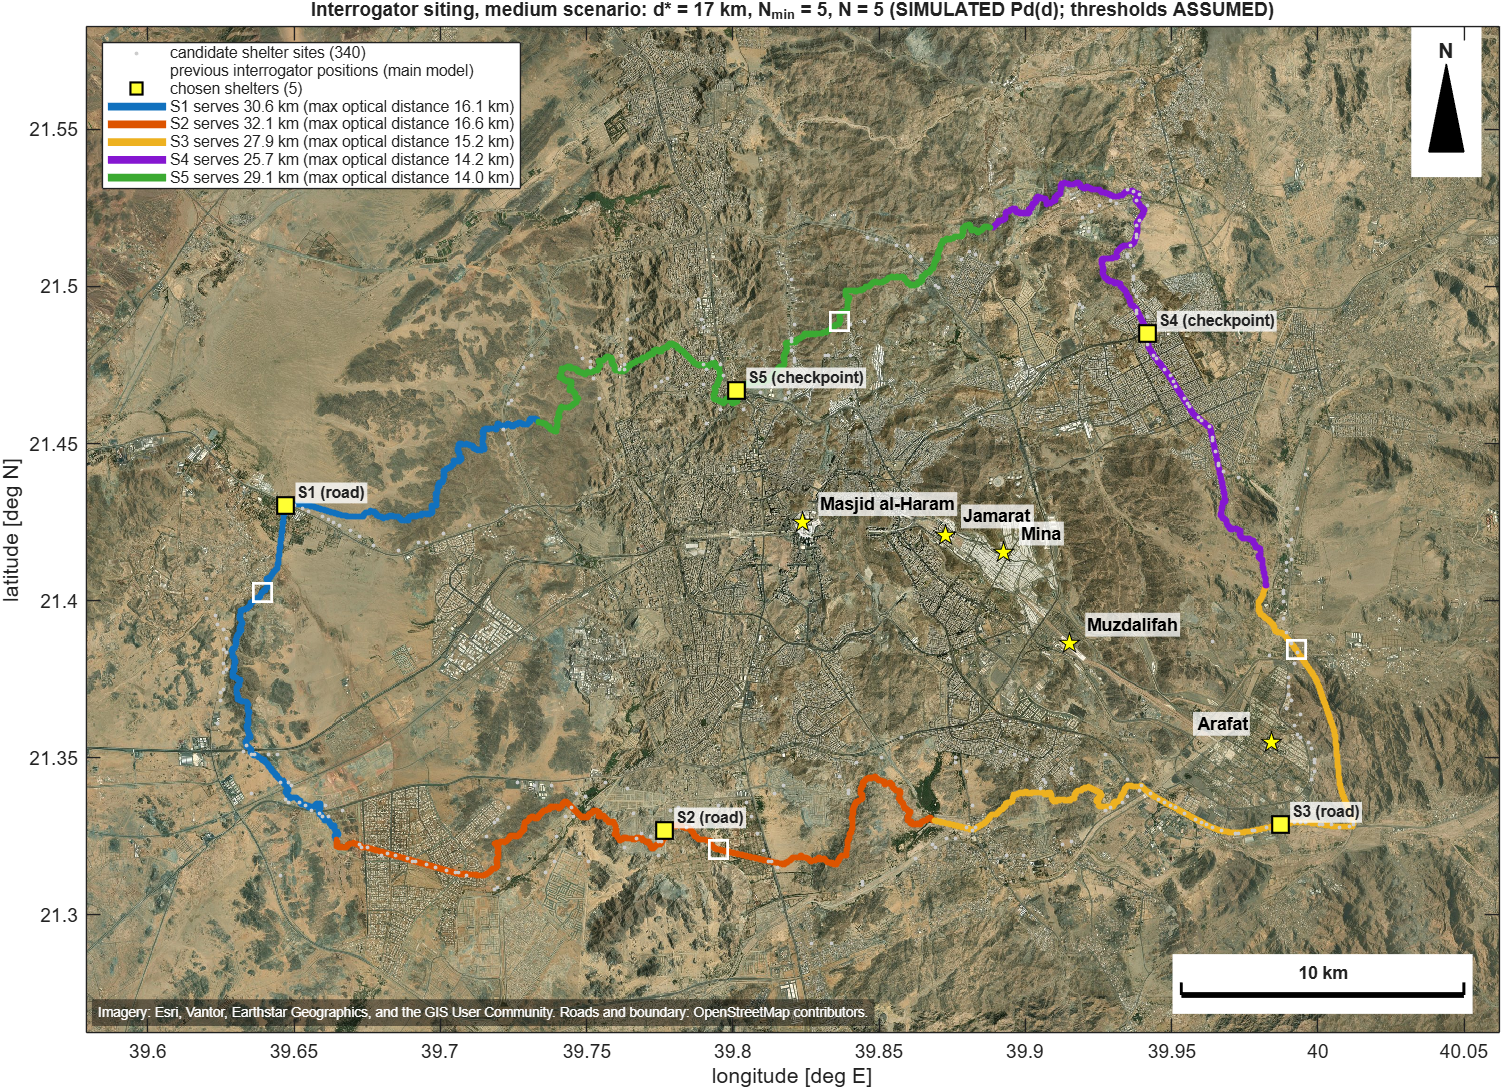
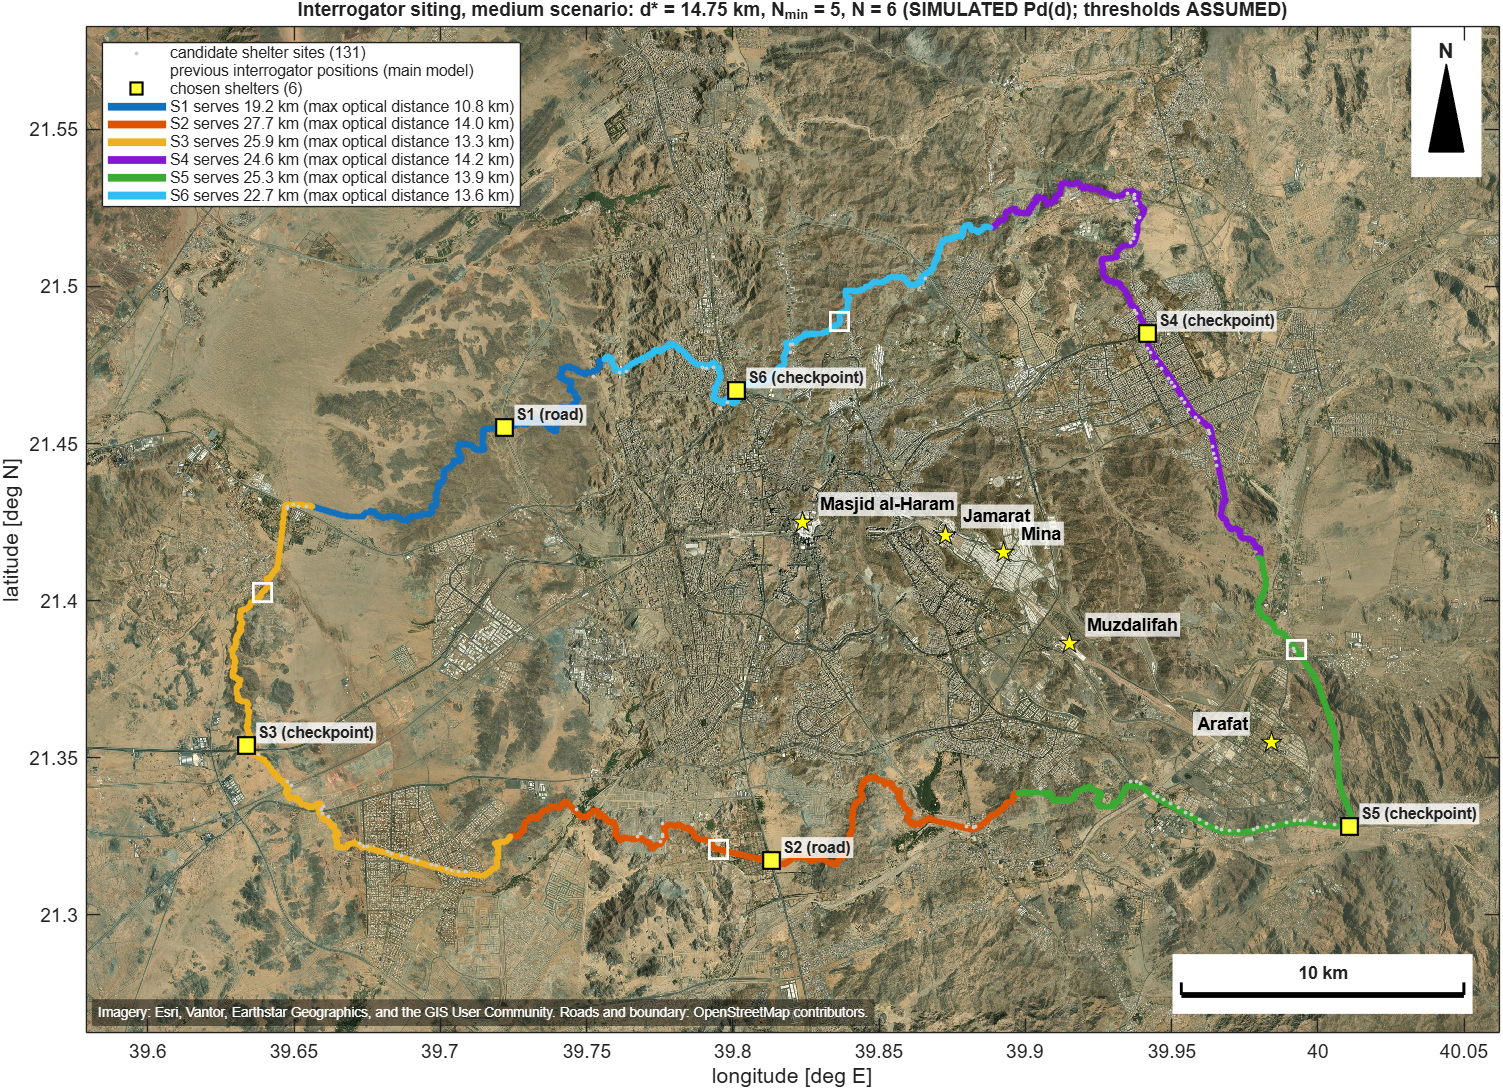
Siting: low/medium/high at d* = 14.75 (same six sites), d* = 13 robustness (N = 7), cost comparison, table rows, Stage 9 siting runner

diff --git a/scripts/stage9_run.m b/scripts/stage9_run.m
@@ -3,10 +3,11 @@
 % Cases: low / medium / high with the BASE uniform classifier stub (Pc 0.983, ASSUMED) and single intruders; medium with the Brno confusion matrix (SENSITIVITY only);
 % medium with group intrusions p_group = 25 % and 50 % (ASSUMED sensitivities).
 addpath(fullfile(fileparts(mfilename('fullpath')), '..', 'src'));   root = setup_paths();
-minN = 10000;   seed = 9090;
-P = load_params_fd();   T = load_twin(P);   TP = terrain_pieces(T, P);   lib = build_das_library(P);
+minN = 10000;   seed = 9090;   outn = getenv('STAGE9_OUT');   if isempty(outn), outn = 'stage9'; end,   if ~isfolder(fullfile(root, 'results', outn)), mkdir(fullfile(root, 'results', outn)); end
+P = load_params_fd();   if strcmp(outn, 'stage9_siting'), P.sim = struct('siting', true, 'pdmodel', true); end,   T = load_twin(P);   TP = terrain_pieces(T, P);   lib = build_das_library(P);   % siting allocations (6 shelters, lead-in) + the unified Pd(d) model; same seed (common random numbers) as the base run
 cases = {'low', 'uniform', 0; 'medium', 'uniform', 0; 'high', 'uniform', 0; 'medium', 'confusion_counts', 0; 'medium', 'uniform', 0.25; 'medium', 'uniform', 0.5};
 names = {'low', 'medium', 'high', 'medium_BrnoMatrix_SENSITIVITY', 'medium_pgroup25_SENSITIVITY', 'medium_pgroup50_SENSITIVITY'};
+if isempty(gcp('nocreate')), cl = parcluster('Processes');   cl.NumWorkers = 6;   parpool(cl, 6); end
 Es = cell(6, 1);   FAs = cell(6, 1);   t0 = tic;
 parfor k = 1:6
     [Es{k}, FAs{k}] = run_scenario(P, T, TP, lib, cases{k, 1}, minN, seed, cases{k, 2}, cases{k, 3});
@@ -14,12 +15,12 @@ end
 fprintf('Monte Carlo done in %.0f s\n', toc(t0));
 rows = table();
 for k = 1:6
-    E = Es{k};   FA = FAs{k};   save(fullfile(root, 'results', 'stage9', ['run_' names{k} '.mat']), 'E', 'FA');
+    E = Es{k};   FA = FAs{k};   save(fullfile(root, 'results', outn, ['run_' names{k} '.mat']), 'E', 'FA');
     M = compute_metrics(E, FA, T, P);   r = M.rows;   r.run_case = repmat(string(names{k}), height(r), 1);   r.label = repmat("SIMULATED", height(r), 1);
     r.classifier = repmat(string(cases{k, 2}), height(r), 1);   r.p_group = repmat(cases{k, 3}, height(r), 1);   r.intruder_events = repmat(M.intruders, height(r), 1);   r.days = repmat(FA.nDays, height(r), 1);   rows = [rows; r]; %#ok<AGROW>
     fprintf('%-32s %d days, %d events, %d persons\n', names{k}, FA.nDays, height(E), sum(E.group_size));
 end
-writetable(rows, fullfile(root, 'results', 'stage9', 'metrics_summary.csv'));
+writetable(rows, fullfile(root, 'results', outn, 'metrics_summary.csv'));
 % ---- re-identification inside the simulation (SIMULATED lookups): singles by the spacing to the nearest simultaneous intruder, groups by their size
 G = readtable(fullfile(root, 'results', 'reid', 'reid_grid.csv'));   GG = readtable(fullfile(root, 'results', 'reid', 'group_events.csv'));
 r = T.cells.ring;   arc = r.s(:);   grid = [50 20 10 5 2 1];   RE = table();
@@ -49,4 +50,4 @@ for k = 1:6
         'VariableNames', {'run_case', 'verified_events', 'verified_persons', 'share_verified_events_group', 'share_single_with_neighbour_below_50m', 'person_link_accuracy_of_links_made', 'person_link_rate', 'decision_rate', 'group_level_accuracy', 'wrong_person_links_per_100_persons'})]; %#ok<AGROW>
 end
 RE.label = repmat("SIMULATED lookup (reid_grid.csv for singles, group_events.csv for groups; drone base 2.5 m, fixed camera 1 m when a camera verified)", height(RE), 1);
-writetable(RE, fullfile(root, 'results', 'stage9', 'reid_in_simulation.csv'));   disp(RE(:, 1:end-1));
+writetable(RE, fullfile(root, 'results', outn, 'reid_in_simulation.csv'));   disp(RE(:, 1:end-1));

diff --git a/scripts/siting_run_scn.m b/scripts/siting_run_scn.m
@@ -1,0 +1,6 @@
+% SITING_RUN_SCN  One siting allocation per MATLAB session (env SC = low | medium | high, DSTAR km, TAG): uses the cached candidate set of the base thresholds (results/siting/candidates_base.mat,
+% made by scripts/siting_n5_test.m), solves the MILP, saves results/alloc_<SC>_22_siting[_TAG].mat and the map / site table in results/siting/.
+addpath(fullfile(fileparts(mfilename('fullpath')), '..', 'src'));   root = setup_paths();   P = load_params_fd();   sc = getenv('SC');   tag = getenv('TAG');   ds = str2double(getenv('DSTAR'));
+X = load(fullfile(root, 'results', 'siting', 'candidates_base.mat'));   [al, C] = get_allocation_siting(P, sc, 'DStarKm', ds, 'Cand', X.C, 'Tag', tag, 'Force', true);
+T = load_twin(P);   nm = sc;   if ~isempty(tag), nm = [sc '_' tag]; end,   R = siting_report(P, T, al, C, nm);
+fprintf('RESULT %s d* %.2f N %d C_total %.0f unserved runs %d max optical %.2f km arcs %s\n', nm, ds, al.n_interrogators, al.C_total, R.unserved_runs, R.max_optical_km, mat2str(sort(al.interrogators.arc_m(:)') / 1e3, 4));

diff --git a/src/das/das_observe.m b/src/das/das_observe.m
@@ -24,7 +24,7 @@ for k = 1:n
     if ~hasDAS(k), continue; end
     sg = das_lookup(lib, char(ev.type(k)), min(dist(k), max(lib.dist_m)), s);
     S(k) = sg.S;   det(k) = sg.detected;
-    if usePd, ti = find(strcmp(PM.types, char(ev.type(k))), 1);   if ~isempty(ti), det(k) = U(k) < interp1(PM.dist_km, PM.pd(:, ti), min(dist(k) / 1e3, PM.dist_km(end)), 'linear'); end, end   ze(k) = sg.z_err;   snr(k) = sg.snr_db;   li(k) = sg.lib_index;
+    if usePd, ti = find(strcmp(PM.types, char(ev.type(k))), 1);   if ~isempty(ti), det(k) = U(k) < interp1(PM.dist_km, PM.pd(:, ti), min(dist(k) / 1e3, PM.dist_km(end)), 'linear'); end, end,   ze(k) = sg.z_err;   snr(k) = sg.snr_db;   li(k) = sg.lib_index;
     % estimated position: shift the true piece along the boundary by the localization error (arc distance, sign random)
     q = find(r.s >= sp(k) + sign(randn(s)) * ze(k), 1);   if isempty(q), q = ev.piece(k); end
     xh(k) = r.x(q);   yh(k) = r.y(q);

diff --git a/report/key_numbers.md b/report/key_numbers.md
@@ -138,3 +138,19 @@ Rule (table row `siting_dstar_rule`, applied to the **type-mix Pd**, i.e. the av
 * The lexicographic MILP minimises the number of violating cells first, so it takes N = 6: full coverage, C_total 12,654,986 SAR, i.e. **+879,228 SAR (+7.5 %) for the 4.10 km that the 5-site solution leaves uncovered**.
 * Sensitivities (road 100 / 200 / 500 m, slope 5 / 10 / 15 %, waterway 25 / 50 / 100 m, inside distance 200 / 500 m): N = 6 in all 8 cases; cost 12,654,814-12,655,748 SAR; five of the six sites are the same in every case (4 checkpoints Al-Sharaye, Al-Hada, Al-Shumaisi (new), Al-Nawariyah and one road site near 58.4 km); only the road site near 108.9 km moves (97.4 km with slope 5 %, 97.9 km with road 500 m).
 * The site at 86 km (Al-Shumaisi (new) checkpoint) has a ground slope of 15.3 %: it is allowed because the entrance checkpoints are exempt from the filters (table row `siting_checkpoint_exempt`; they already have buildings and infrastructure).
+
+## Siting: three scenarios, robustness to the d* rule, cost comparison (`results/alloc_*_22_siting*.mat`, `results/siting/siting_*`)
+* **Low, medium and high give the same result** at d* = 14.75 km: N = 6, C_total 12,654,986 SAR, the same six sites (boundary arcs 8.70, 29.58, 58.44, 85.95, 108.90, 125.19 km; four checkpoints Al-Sharaye, Al-Hada, Al-Shumaisi (new), Al-Nawariyah and two road sites), no unserved run, maximum optical distance 14.23 km. The scenarios differ only in the drones, which do not enter the siting.
+* **Robustness to the d* rule: N = 6 under the Pd rule of the type mix (d* = 14.75 km), N = 7 under the weakest-type rule (d* = 13 km, walking): C_total 13,303,473 SAR (+648,487 SAR), sites at 1.80, 22.44, 46.24, 64.90, 85.95, 108.90, 125.19 km, maximum optical distance 11.47 km.** The analytic N_min is 6 for d* = 13 km (ceil(145.47 / 26)).
+* **Cost: main model (4 interrogators) versus siting model (6 interrogators)**
+
+| Item | Main model (4 interrogators) | Siting model (6) | Difference |
+| --- | ---: | ---: | ---: |
+| Interrogators (636,000 each) | 2,544,000 | 3,816,000 | +1,272,000 |
+| Shelters (C_shelter = 0 in the table) | 0 | 0 | 0 |
+| Sensing fibre (145.46 km) | 8,829,500 | 8,829,500 | 0 |
+| Lead-in fibre (route factor 1.4) | not modelled | 9,480 | +9,480 |
+| **C_total** | **11,373,506** | **12,654,986** | **+1,281,480 (+11.3 %)** |
+| Power: interrogators + shelter cooling | 680 + 680 = 1,360 W | 1,020 + 1,020 = 2,040 W | +680 W |
+
+The model has no operating cost in SAR, only the power draw (within the P0 budget in both). Drones (12 in the medium scenario) are the same in both models and are not part of C_total.
